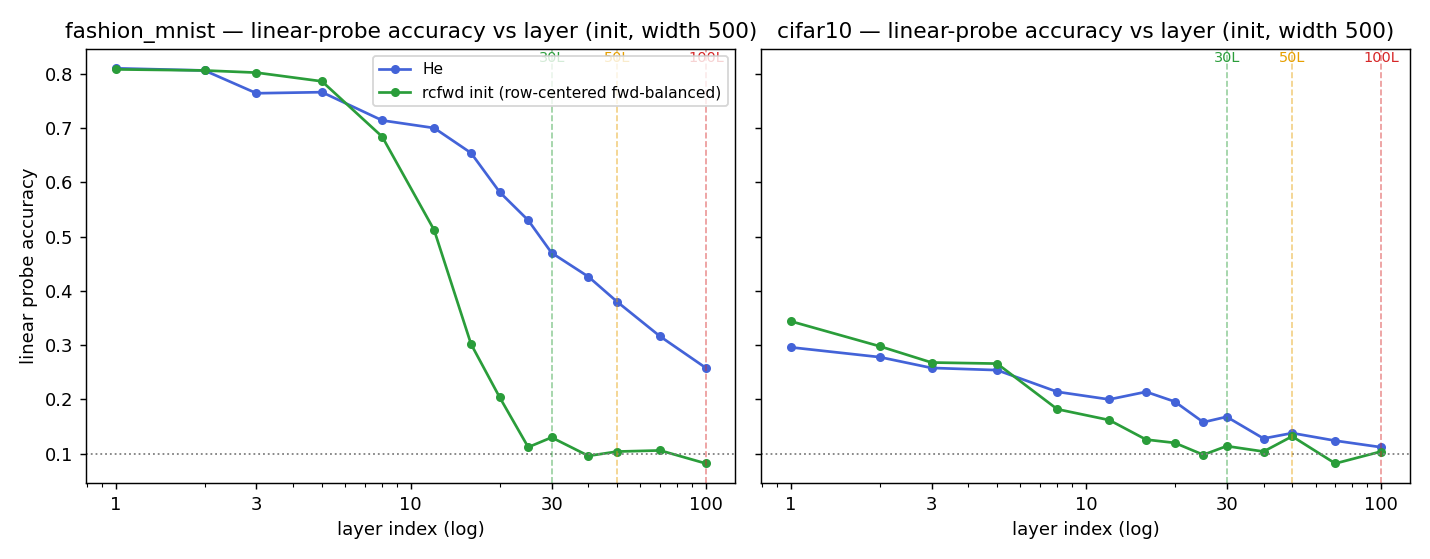
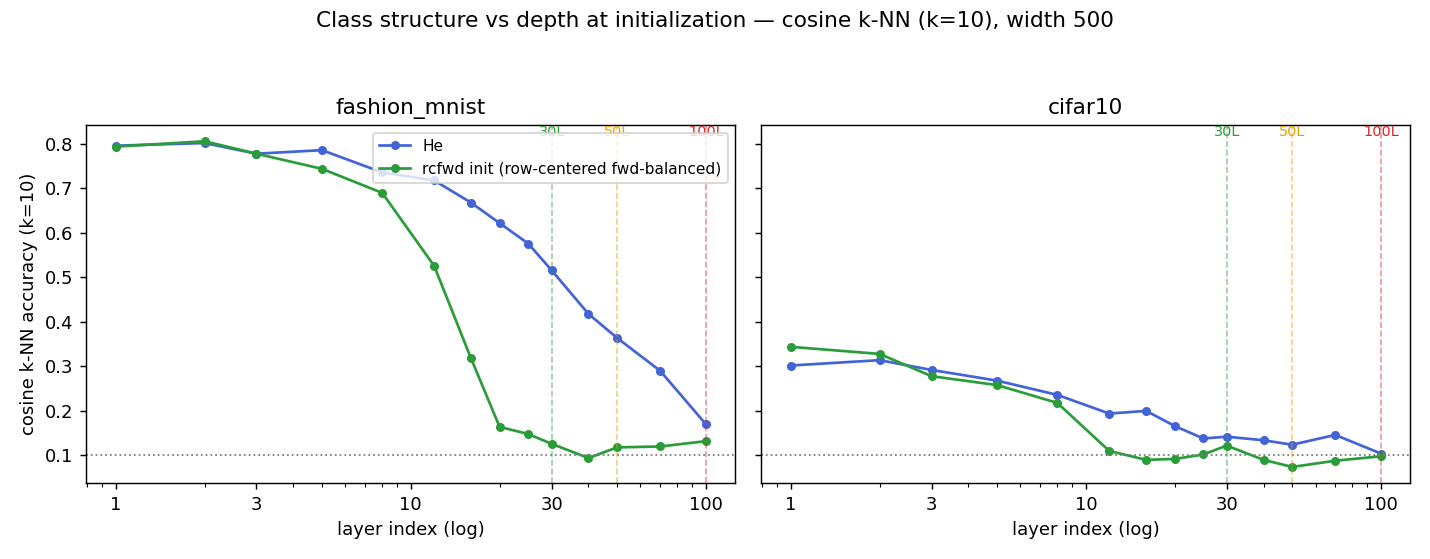
Switch the content-profile figure to cosine k-NN; keep linear probe as cross-check
The per-layer profile now plots cosine k-NN (k=10) accuracy - the
scale-invariant, geometrically intuitive ruler consistent with the
campaign-01 metrics - with the linear probe retained in the JSON as
the agreeing cross-check (the two match within ~0.03 at nearly every
cell). Same story, same knee: rcfwd matches He through l~3, collapses
to chance by l~25 (fmnist), He above chance through l=100. README
numbers updated to the k-NN values; figure title collision fixed.

diff --git a/scripts/content_profile_per_layer.py b/scripts/content_profile_per_layer.py
@@ -32,6 +32,7 @@ matplotlib.use("Agg")
 import matplotlib.pyplot as plt
 from sklearn.linear_model import LogisticRegression
 from sklearn.model_selection import train_test_split
+from sklearn.neighbors import KNeighborsClassifier
 
 from rp_study.data import get_data_loader
 from rp_study.projections import multi_layer_rp_with_init
@@ -39,8 +40,17 @@ from rp_study.projections import multi_layer_rp_with_init
 SEED = 42
 N = 2000
 WIDTH = 500  # matches every rcfwd training run
+K = 10
 LAYERS = [1, 2, 3, 5, 8, 12, 16, 20, 25, 30, 40, 50, 70, 100]
 STRATEGIES = ["he", "row_centered_forward_balanced"]
+
+
+def cosine_knn_acc(X, y):
+    # cosine metric: scale-invariant — Euclidean k-NN is blind on row-centered
+    # representations (per-sample scale variation destroys neighborhoods)
+    Xn = X / (np.linalg.norm(X, axis=1, keepdims=True) + 1e-12)
+    Xtr, Xte, ytr, yte = train_test_split(Xn, y, test_size=0.25, random_state=SEED, stratify=y)
+    return KNeighborsClassifier(n_neighbors=K, metric="cosine").fit(Xtr, ytr).score(Xte, yte)
 
 
 def linear_probe_acc(X, y):
@@ -59,10 +69,11 @@ for dataset in ["fashion_mnist", "cifar10"]:
             np.random.seed(SEED)
             torch.manual_seed(SEED)
             Xp = multi_layer_rp_with_init(X, l, init_strategy=strategy, width=WIDTH, seed=SEED)
-            acc = float(linear_probe_acc(Xp, y))
+            knn = float(cosine_knn_acc(Xp, y))
+            lin = float(linear_probe_acc(Xp, y))
             rows.append({"dataset": dataset, "init_strategy": strategy, "layer": l,
-                         "width": WIDTH, "linear_probe_accuracy": acc})
-            print(f"{dataset:14} {strategy:>30} l={l:>3}  linear={acc:.3f}", flush=True)
+                         "width": WIDTH, "cosine_knn_accuracy": knn, "linear_probe_accuracy": lin})
+            print(f"{dataset:14} {strategy:>30} l={l:>3}  cos-kNN={knn:.3f}  linear={lin:.3f}", flush=True)
 
 out = ROOT / "reports/results/content_profile_per_layer.json"
 out.write_text(json.dumps(rows, indent=2))
@@ -72,7 +83,7 @@ COLOR = {"he": "#4363d8", "row_centered_forward_balanced": "#2a9d3a"}
 LBL = {"he": "He", "row_centered_forward_balanced": "rcfwd init (row-centered fwd-balanced)"}
 for ax, ds in zip(axes, ["fashion_mnist", "cifar10"]):
     for s in STRATEGIES:
-        pts = [(r["layer"], r["linear_probe_accuracy"]) for r in rows
+        pts = [(r["layer"], r["cosine_knn_accuracy"]) for r in rows
                if r["dataset"] == ds and r["init_strategy"] == s]
         ax.plot(*zip(*pts), marker="o", ms=4, color=COLOR[s], label=LBL[s])
     ax.axhline(0.1, color="gray", ls=":", lw=1)
@@ -83,10 +94,11 @@ for ax, ds in zip(axes, ["fashion_mnist", "cifar10"]):
     ax.set_xticks([1, 3, 10, 30, 100])
     ax.set_xticklabels(["1", "3", "10", "30", "100"])
     ax.set_xlabel("layer index (log)")
-    ax.set_title(f"{ds} — linear-probe accuracy vs layer (init, width 500)")
-axes[0].set_ylabel("linear probe accuracy")
+    ax.set_title(ds)
+axes[0].set_ylabel(f"cosine k-NN accuracy (k={K})")
 axes[0].legend(fontsize=8.5, loc="upper right")
-fig.tight_layout()
+fig.suptitle(f"Class structure vs depth at initialization — cosine k-NN (k={K}), width 500", fontsize=12)
+fig.tight_layout(rect=(0, 0, 1, 0.94))
 figout = ROOT / "reports/figures/rcfwd_rescale/content_profile_per_layer.png"
 fig.savefig(figout, dpi=130)
 print(f"saved {out.relative_to(ROOT)} and {figout.relative_to(ROOT)}")

diff --git a/cluster/09_rcfwd_rescale/README.md b/cluster/09_rcfwd_rescale/README.md
@@ -79,7 +79,7 @@ Three rounds of init-time probes, each sharpening (and once *refuting*) the stor
 
 ![Per-layer content profile at init](../../docs/figures/content_profile_per_layer.png)
 
-On fmnist, rcfwd matches He through layers 1–5 (0.79–0.81 both), then collapses: 0.51 @ ℓ=12, 0.30 @ 16, 0.20 @ 20, chance by ℓ≈25. He glides down slowly and is still above chance at ℓ=100. The knee sits where the theory says it should: the class-correlated signal decays like r^ℓ = 0.826^ℓ (≈0.10 at ℓ=12) while forward-balancing holds the *total* RMS flat — so the SNR, not the scale, dies.
+On fmnist (cosine k-NN, k=10 — scale-invariant; the linear probe in the same JSON draws the same curve within ~0.03 everywhere), rcfwd matches He through layers 1–3 (0.79–0.81 both), then collapses: 0.53 @ ℓ=12, 0.32 @ 16, 0.16 @ 20, chance from ℓ≈25 on. He glides down slowly — 0.52 @ 30, 0.36 @ 50, still 0.17 @ ℓ=100. The knee sits where the theory says it should: the class-correlated signal decays like r^ℓ = 0.826^ℓ (≈0.10 at ℓ=12) while forward-balancing holds the *total* RMS flat — so the SNR, not the scale, dies.
 
 3. **The refined mechanism — noise-tail length.** Every rcfwd net starts with the same ~20-layer informative prefix; what grows with network depth is the tail of dead layers between that prefix and the loss:
 
